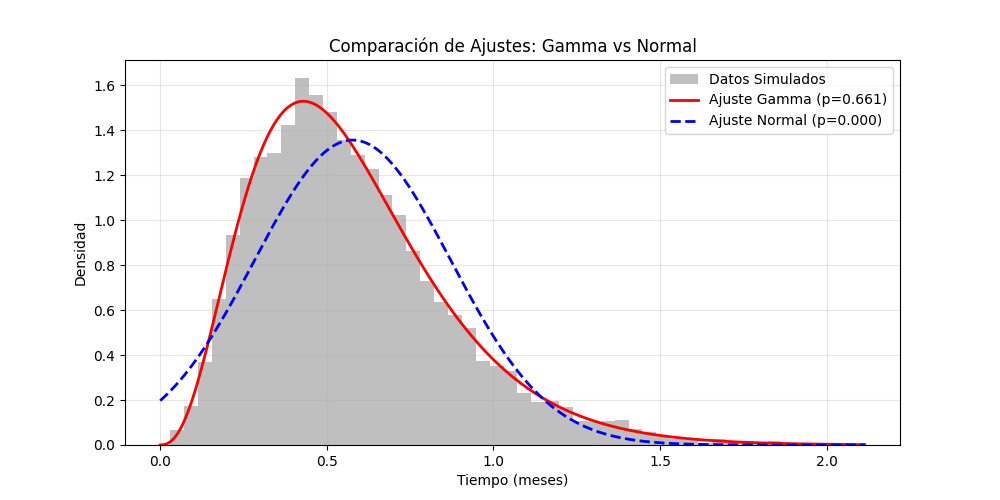
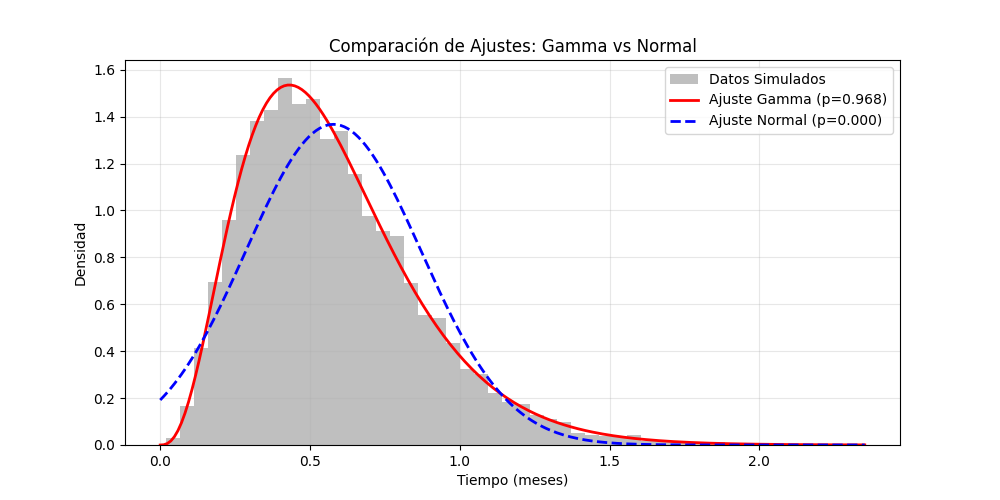
Punto  B y c mas graficos y Informe

diff --git a/problema_reparacion.py b/problema_reparacion.py
@@ -93,12 +93,11 @@ N_maquinas = 7
 S_repuestos = 3
 TF_medio = 1.0     # 1 mes
 TR_medio = 1/8.0   # 0.125 meses
-M = 10000          # Simulaciones de Monte Carlo (Cap. 4)
+M = 10000          
 
 print(f"Ejecutando {M} simulaciones del sistema...")
 tiempos_reales = np.array([sim_reparacion(N_maquinas, S_repuestos, TF_medio, TR_medio,expovariate, expovariate) for _ in range(M)])
 
-# Estimadores insesgados según Sección 7.3.4 y 7.3.5
 media_muestral = np.mean(tiempos_reales)
 desvio_muestral = np.std(tiempos_reales, ddof=1) # ddof=1 para estimador S (muestral)
 
@@ -126,7 +125,6 @@ def calcular_T_Pearson(datos, bins, params):
     esp = np.where(esp < 0.1, 0.1, esp) 
     return np.sum((obs - esp)**2 / esp)
 
-# 1. Estimamos parámetros de la Gamma para nuestros datos reales
 params_reales_g = stats.gamma.fit(tiempos_reales)
 k_bins = 20 
 _, bins_test = np.histogram(tiempos_reales, bins=k_bins)
@@ -138,11 +136,8 @@ M_pvalor = 1000 # Número de muestras para el test
 conteo_extremos = 0
 
 for _ in range(M_pvalor):
-    # Generamos muestra ficticia bajo H0 (Gamma perfecta)
     muestra_ficticia = stats.gamma.rvs(*params_reales_g, size=M)
     
-    # RE-ESTIMAMOS: Calculamos nuevos parámetros para la muestra de la PC
-    # Es obligatorio para parámetros no especificados (Pág. 147)
     params_ficticios = stats.gamma.fit(muestra_ficticia)
     
     # Calculamos T sim contra su propia estimación
@@ -157,7 +152,6 @@ print(f"\nRESULTADOS PUNTO C (Bondad de Ajuste Gamma):")
 print(f"Estadístico T observado: {t_obs:.4f}")
 print(f"p-valor: {p_valor:.4f}")
 
-# Decisión estadística (Pág. 143)
 if p_valor < 0.05:
     print("CONCLUSIÓN: Se rechaza H0 (La Gamma no ajusta bien).")
 else:
@@ -167,7 +161,6 @@ else:
 # =============================================================================
 def calcular_T_Pearson_Normal(datos, bins, mu, sigma):
     obs, _ = np.histogram(datos, bins=bins)
-    # Probabilidad teórica usando la CDF Normal (Pág. 25)
     esp = (stats.norm.cdf(bins[1:], loc=mu, scale=sigma) - 
            stats.norm.cdf(bins[:-1], loc=mu, scale=sigma)) * len(datos)
     esp = np.where(esp < 0.1, 0.1, esp)
@@ -181,7 +174,6 @@ print("Simulando p-valor Normal...")
 excesos_n = 0
 for _ in range(M_pvalor):
     muestra_f = stats.norm.rvs(loc=mu_n_r, scale=sigma_n_r, size=M)
-    # Re-estimamos media y desvío para la muestra ficticia (Pág. 147)
     mu_f, sigma_f = stats.norm.fit(muestra_f) 
     if calcular_T_Pearson_Normal(muestra_f, bins_test, mu_f, sigma_f) >= t_obs_n:
         excesos_n += 1
